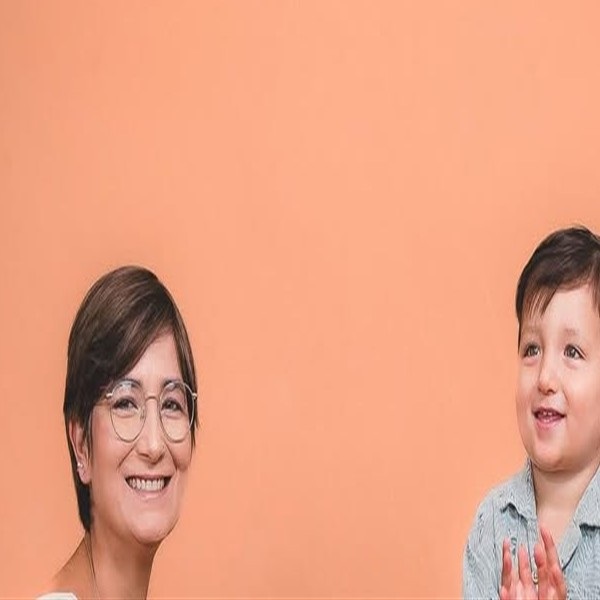
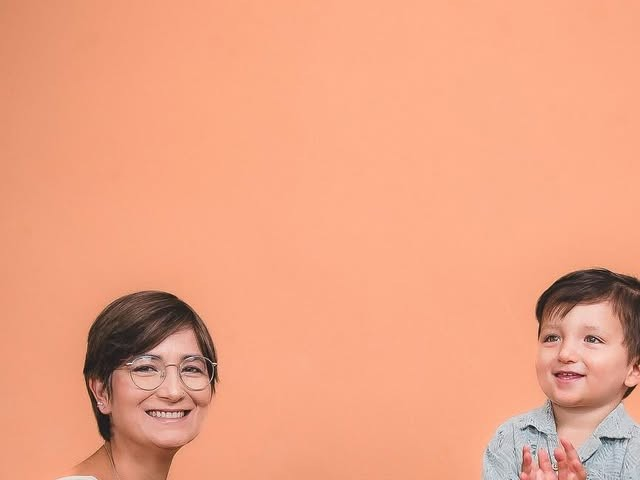
fix: recrop Instagram images to 4:3 matching card ratio and add cache busters so browser updates immediately

Changed region(s): [[0.75, 0.375, 1.0, 1.0], [0.06, 0.4375, 0.36, 1.0]]

diff --git a/index.html b/index.html
@@ -30,8 +30,8 @@
     href="https://fonts.googleapis.com/css2?family=Cormorant+Garamond:ital,wght@0,400;0,500;0,600;0,700;1,400;1,500;1,600;1,700&family=Plus+Jakarta+Sans:wght@300;400;500;600;700&display=swap"
     rel="stylesheet">
 
-  <!-- Stylesheet -->
-  <link rel="stylesheet" href="css/styles.css">
+  <!-- Stylesheet (Cache busted) -->
+  <link rel="stylesheet" href="css/styles.css?v=2.0">
 </head>
 
 <body class="editorial-page">
@@ -486,19 +486,19 @@
 
       <div class="follow-photos-row stagger-parent">
         <a href="https://www.instagram.com/nicolevaleriofotografia/p/DE3YbHSyP8q/" target="_blank" rel="noopener noreferrer" class="follow-photo-link reveal-on-scroll" aria-label="Ver publicación en Instagram">
-          <img src="assets/images/studionvf/ig_post_1.jpg" alt="Publicación Instagram Nicole Valerio" loading="lazy">
+          <img src="assets/images/studionvf/ig_post_1.jpg?v=3" alt="Publicación Instagram Nicole Valerio" loading="lazy">
         </a>
         <a href="https://www.instagram.com/nicolevaleriofotografia/p/DfdCp9nm-j8/" target="_blank" rel="noopener noreferrer" class="follow-photo-link reveal-on-scroll" aria-label="Ver publicación en Instagram">
-          <img src="assets/images/studionvf/ig_post_2.jpg" alt="Publicación Instagram Nicole Valerio" loading="lazy">
+          <img src="assets/images/studionvf/ig_post_2.jpg?v=3" alt="Publicación Instagram Nicole Valerio" loading="lazy">
         </a>
         <a href="https://www.instagram.com/nicolevaleriofotografia/p/DZOWAQHCe8E/" target="_blank" rel="noopener noreferrer" class="follow-photo-link reveal-on-scroll" aria-label="Ver publicación en Instagram">
-          <img src="assets/images/studionvf/ig_post_3.jpg" alt="Publicación Instagram Nicole Valerio" loading="lazy">
+          <img src="assets/images/studionvf/ig_post_3.jpg?v=3" alt="Publicación Instagram Nicole Valerio" loading="lazy">
         </a>
         <a href="https://www.instagram.com/nicolevaleriofotografia/p/DN1rYQU0ksm/" target="_blank" rel="noopener noreferrer" class="follow-photo-link reveal-on-scroll" aria-label="Ver publicación en Instagram">
-          <img src="assets/images/studionvf/ig_post_4.jpg" alt="Publicación Instagram Nicole Valerio" loading="lazy">
+          <img src="assets/images/studionvf/ig_post_4.jpg?v=3" alt="Publicación Instagram Nicole Valerio" loading="lazy">
         </a>
         <a href="https://www.instagram.com/nicolevaleriofotografia/p/DGlRz09Rqog/" target="_blank" rel="noopener noreferrer" class="follow-photo-link reveal-on-scroll" aria-label="Ver publicación en Instagram">
-          <img src="assets/images/studionvf/ig_post_5.jpg" alt="Publicación Instagram Nicole Valerio" loading="lazy">
+          <img src="assets/images/studionvf/ig_post_5.jpg?v=3" alt="Publicación Instagram Nicole Valerio" loading="lazy">
         </a>
       </div>
     </div>

diff --git a/css/styles.css b/css/styles.css
@@ -1391,22 +1391,25 @@ h1 em, h2 em, h3 em, h4 em,
 .follow-photos-row {
   display: grid;
   grid-template-columns: repeat(5, 1fr);
-  gap: 12px;
+  gap: 14px;
 }
 
 .follow-photo-link {
   display: block;
-  aspect-ratio: 1 / 1;
+  aspect-ratio: 4 / 3;
   overflow: hidden;
-  border-radius: 6px;
+  border-radius: 8px;
   text-decoration: none;
+  background-color: #ede7df;
 }
 
 .follow-photo-link img {
   width: 100%;
   height: 100%;
   object-fit: cover;
-  transition: transform 0.6s var(--ease-smooth), filter 0.4s ease;
+  object-position: center center;
+  display: block;
+  transition: transform 0.5s var(--ease-smooth), filter 0.4s ease;
 }
 
 .follow-photo-link:hover img {
